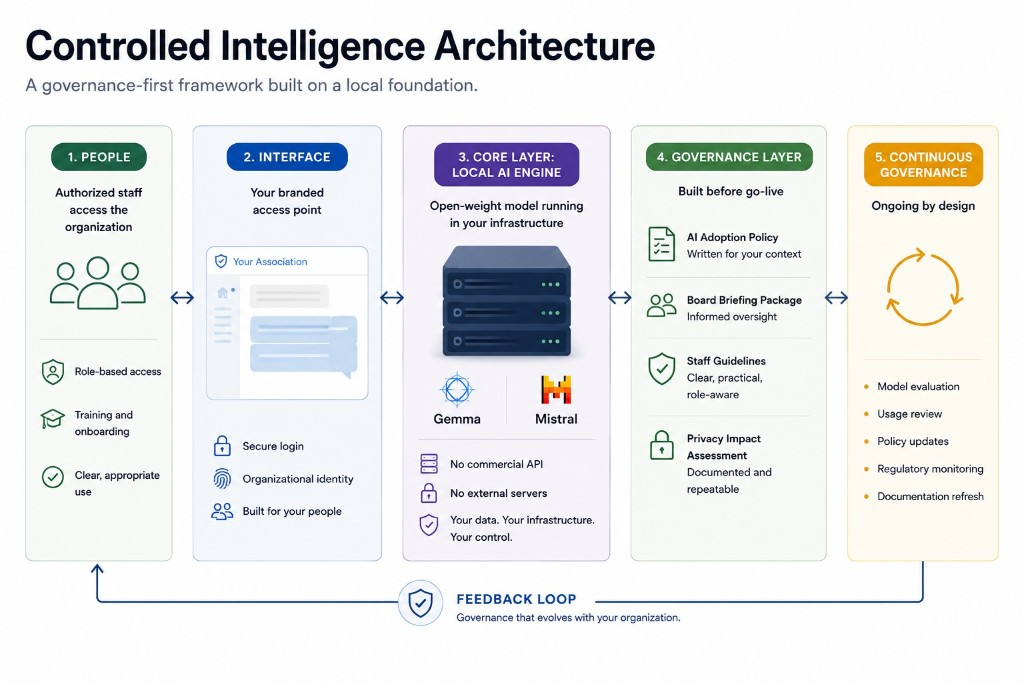
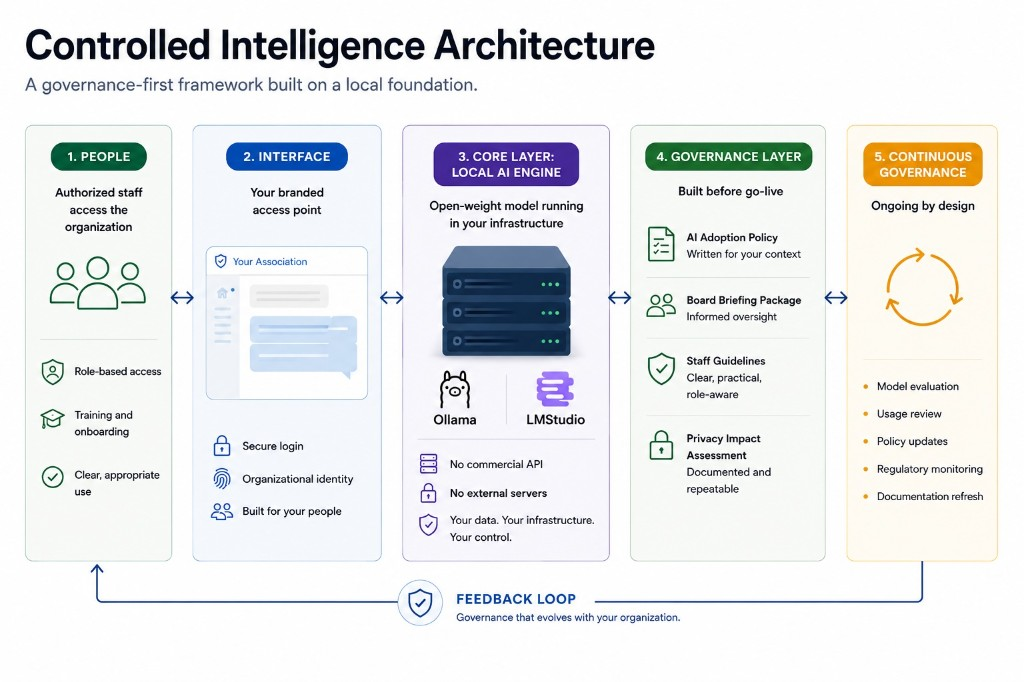
Journal: Introducing Controlled Intelligence post, redirects, revised body and architecture art.
Rename CI journal entry with slug redirects; replace post prose; swap architecture infographic for Ollama/LM Studio version and update image alt text.

diff --git a/src/Journal.jsx b/src/Journal.jsx
@@ -14,6 +14,7 @@ import {
   formatJournalDate,
   formatJournalShortDate,
   getJournalPost,
+  JOURNAL_SLUG_REDIRECTS,
   journalPosts,
 } from './journalData.js'
 
@@ -669,6 +670,12 @@ export function JournalIndexPage() {
 
 export function JournalPostPage() {
   const { slug } = useParams()
+  const canonicalSlug = JOURNAL_SLUG_REDIRECTS[slug] ?? slug
+
+  if (slug !== canonicalSlug) {
+    return <Navigate to={`/journal/${canonicalSlug}`} replace />
+  }
+
   const post = getJournalPost(slug)
 
   useEffect(() => {

diff --git a/src/journalData.js b/src/journalData.js
@@ -66,6 +66,12 @@ export function formatJournalShortDate(date) {
   }).format(new Date(`${date}T00:00:00`))
 }
 
+/** Old slug -> canonical slug (filename stem); SPA redirects preserve bookmarks */
+export const JOURNAL_SLUG_REDIRECTS = {
+  '2026-05-10-what-controlled-intelligence-actually-is':
+    '2026-05-10-introducing-controlled-intelligence',
+}
+
 export const journalPosts = Object.entries(markdownFiles)
   .map(([path, raw]) => {
     const { data, body } = parseFrontmatter(raw)

diff --git a/content/journal/2026-05-10-introducing-controlled-intelligence.md b/content/journal/2026-05-10-introducing-controlled-intelligence.md
@@ -1,0 +1,65 @@
+---
+title: "Introducing Controlled Intelligence"
+date: 2026-05-10
+excerpt: "Controlled Intelligence is a governance-first AI framework: local open-weight models, institutional custody of data, and accountability layers built before the first prompt—not after informal browser-tool use has already spread."
+category: "Controlled Intelligence"
+tags:
+  - Controlled Intelligence
+  - Governance
+  - Healthcare associations
+author: "Sean Cranbury"
+read_time: "12 min read"
+cover_image: "/images/journal/controlled-intelligence-orca-cover.png"
+cover_alt: "Orca surfacing in calm water, dorsal fin and eye patch visible against a distant forested shoreline"
+credits: "Photo: Ali Kazal"
+header_color: "#FFDA03"
+header_dark_fg: true
+cover_object_contain: true
+status: published
+---
+
+> **con·trolled in·tel·li·gence** /kənˌtroʊld ɪnˈtɛlɪdʒəns/ *n.* A governance framework in which artificial intelligence systems operate within an organization's own infrastructure, under policies the organization sets and enforces, with data that does not leave its custody. Distinguished from general AI deployment by the presence of defined boundaries, auditable usage, and institutional accountability at every layer. The attributive form, *controlled-intelligence*, modifies related compounds: *controlled-intelligence architecture*, *controlled-intelligence framework*.
+
+> *Etymology:* controlled, from Fr. *contrôler*, orig. *contre-rôle*, a counter-register kept to verify an official record; + intelligence, from L. *intelligentia*, the capacity to discern, understand, and choose. The compound preserves both senses: a system that understands, kept accountable by a record it cannot alter.
+
+> *cf.* data sovereignty, governance framework.
+
+---
+
+Most healthcare associations and professional bodies have at least one staff member using ChatGPT or another popular consumer AI tool regularly for their work.
+
+They're likely using it for communications drafts, policy summaries, member correspondence, email, newsletter content. In most cases, leadership doesn't know which staff member it is, which documents have gone through the interface, or what commercial infrastructure is now holding information the organization considers internal.
+
+This is something to clearly consider for healthcare associations and professional bodies more so than in some commercial sectors. The information traveling through browser-based AI tools (ChatGPT, Claude, Gemini, and company) is often the same information members trust the organization to protect: regulatory submissions, internal advocacy positions, member correspondence, clinical guidance. PIPEDA and PIPA set the legal floor. The reputational exposure sits above that, and it doesn't require a breach to land poorly.
+
+We developed a strategy and framework to address these gaps. It's called Controlled Intelligence and its core layer, which we're focusing on in this post, is described below.
+
+![Two Paths for AI-Assisted Work: side-by-side infographic contrasting consumer browser AI (data leaves the organization, external policies, limited accountability) with Controlled Intelligence (data stays on your infrastructure, your policies, auditable usage and quarterly reviews).](/images/journal/two-paths-ai-assisted-work.png)
+
+Controlled Intelligence is a governance-first AI framework built specifically for this operating context. Here's how it works.
+
+The core layer is a locally deployed open-weight model, based on tools like Ollama, LM Studio, or others like them, running inside the organization's own secure infrastructure. No commercial API or opaque third-party licensing agreement. No data routed through an external server. The model runs on the secure network the organization already controls, under policies the organization sets.
+
+Staff access it through a branded interface that carries the organization's identity. It looks like an organizational tool because it is one. Staff aren't moving between the association's systems and a commercial platform. The boundary between tool and institution is closed by design.
+
+The governance layer is built before the tool goes live. That means an AI adoption policy written for the organization's actual operating context, a board briefing package, staff guidelines, and a privacy impact assessment framework, all in place before the first prompt is submitted.
+
+Staff onboarding is calibrated to actual capacity, not to the tool's feature list.
+
+Many organizations that have struggled with AI adoption trained staff to use a tool that wasn't fitted for the specifics of their organization and the context of its use escaped accountability and tracking.
+
+Controlled Intelligence addresses the calibration problem alongside the access problem.
+
+Quarterly governance reviews are built into the ongoing engagement. The model gets evaluated. Usage patterns get reviewed. The governance documentation gets updated as the tool evolves, staff knowledge improves, and as the regulatory environment shifts. This is the structure that makes the framework durable.
+
+Commercial AI tools don't have organizational memory or organizational loyalty. They have terms of service and training pipelines. When a staff member feeds a sensitive document into ChatGPT to produce a summary, the document has left the building. Whether it remains there is governed by OpenAI's data policies, not by the association's. Most organizations have a policy document that addresses this. The policy document and the tool's actual behaviour are not the same thing.
+
+Most member-based organizations are a few steps away from a board conversation that often gets pushed further and further down the road. A member complaint about data handling, a staff disclosure that surfaces informal AI use, a privacy inquiry from a regulator. Controlled Intelligence changes what an organization can say in that conversation, not because it produces better talking points, but because the architecture provides the answer.
+
+The local engine is the core layer and everything else fans out from it: the staff-facing interface, the governance documents, the onboarding, the quarterly reviews. The reason to start there is that it changes what's possible in the rest of the framework. An organization running a local model can make real commitments about data custody because those commitments are true, repeatable, and provable. An organization relying on commercial tools with a policy document is relying on the document to do things that it simply can't support.
+
+Discovery is the entry point for most engagements and can be done at any time. It produces a written organizational assessment and a board-ready implementation pathway that has value regardless of whether the organization proceeds. It's a current-state picture of AI use inside the organization, a gap analysis against existing privacy obligations, and a realistic timeline for what responsible adoption looks like given actual budget and staff capacity.
+
+![Controlled Intelligence Architecture infographic: five stages—People, Interface, Core Layer (local AI engine with Ollama and LM Studio), Governance Layer, and Continuous Governance—linked by flows and a bottom feedback loop: “Governance that evolves with your organization.”](/images/journal/controlled-intelligence-architecture.png)
+
+The organizations that have a clear answer to "where does our AI-assisted work actually go?" are a small minority. For most, the answer is somewhere inside a commercial platform's infrastructure, governed by a terms of service agreement the organization has never read but are bound by regardless. Controlled Intelligence changes that answer before the question gets asked in a less comfortable context.
